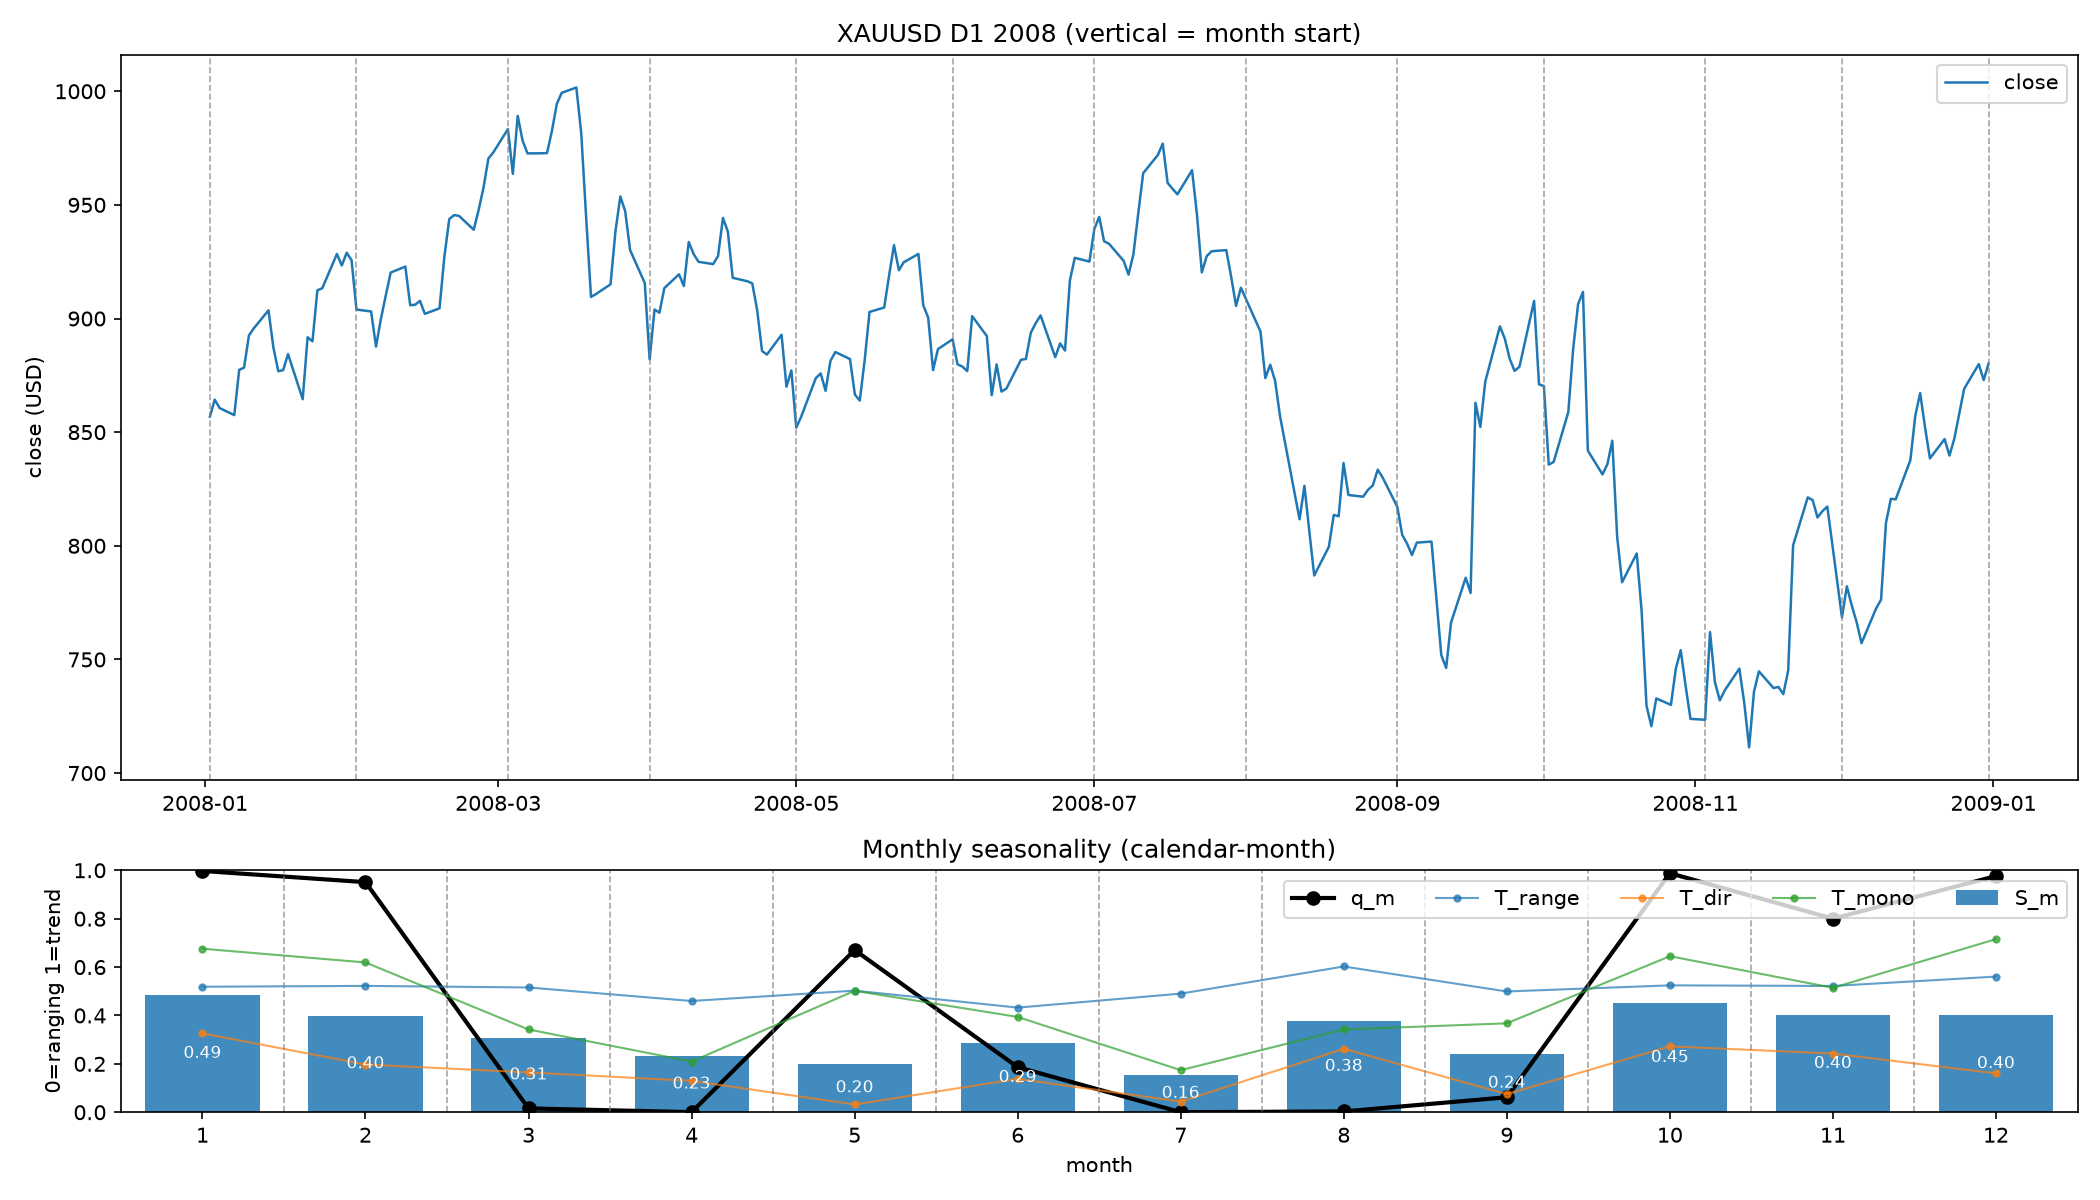
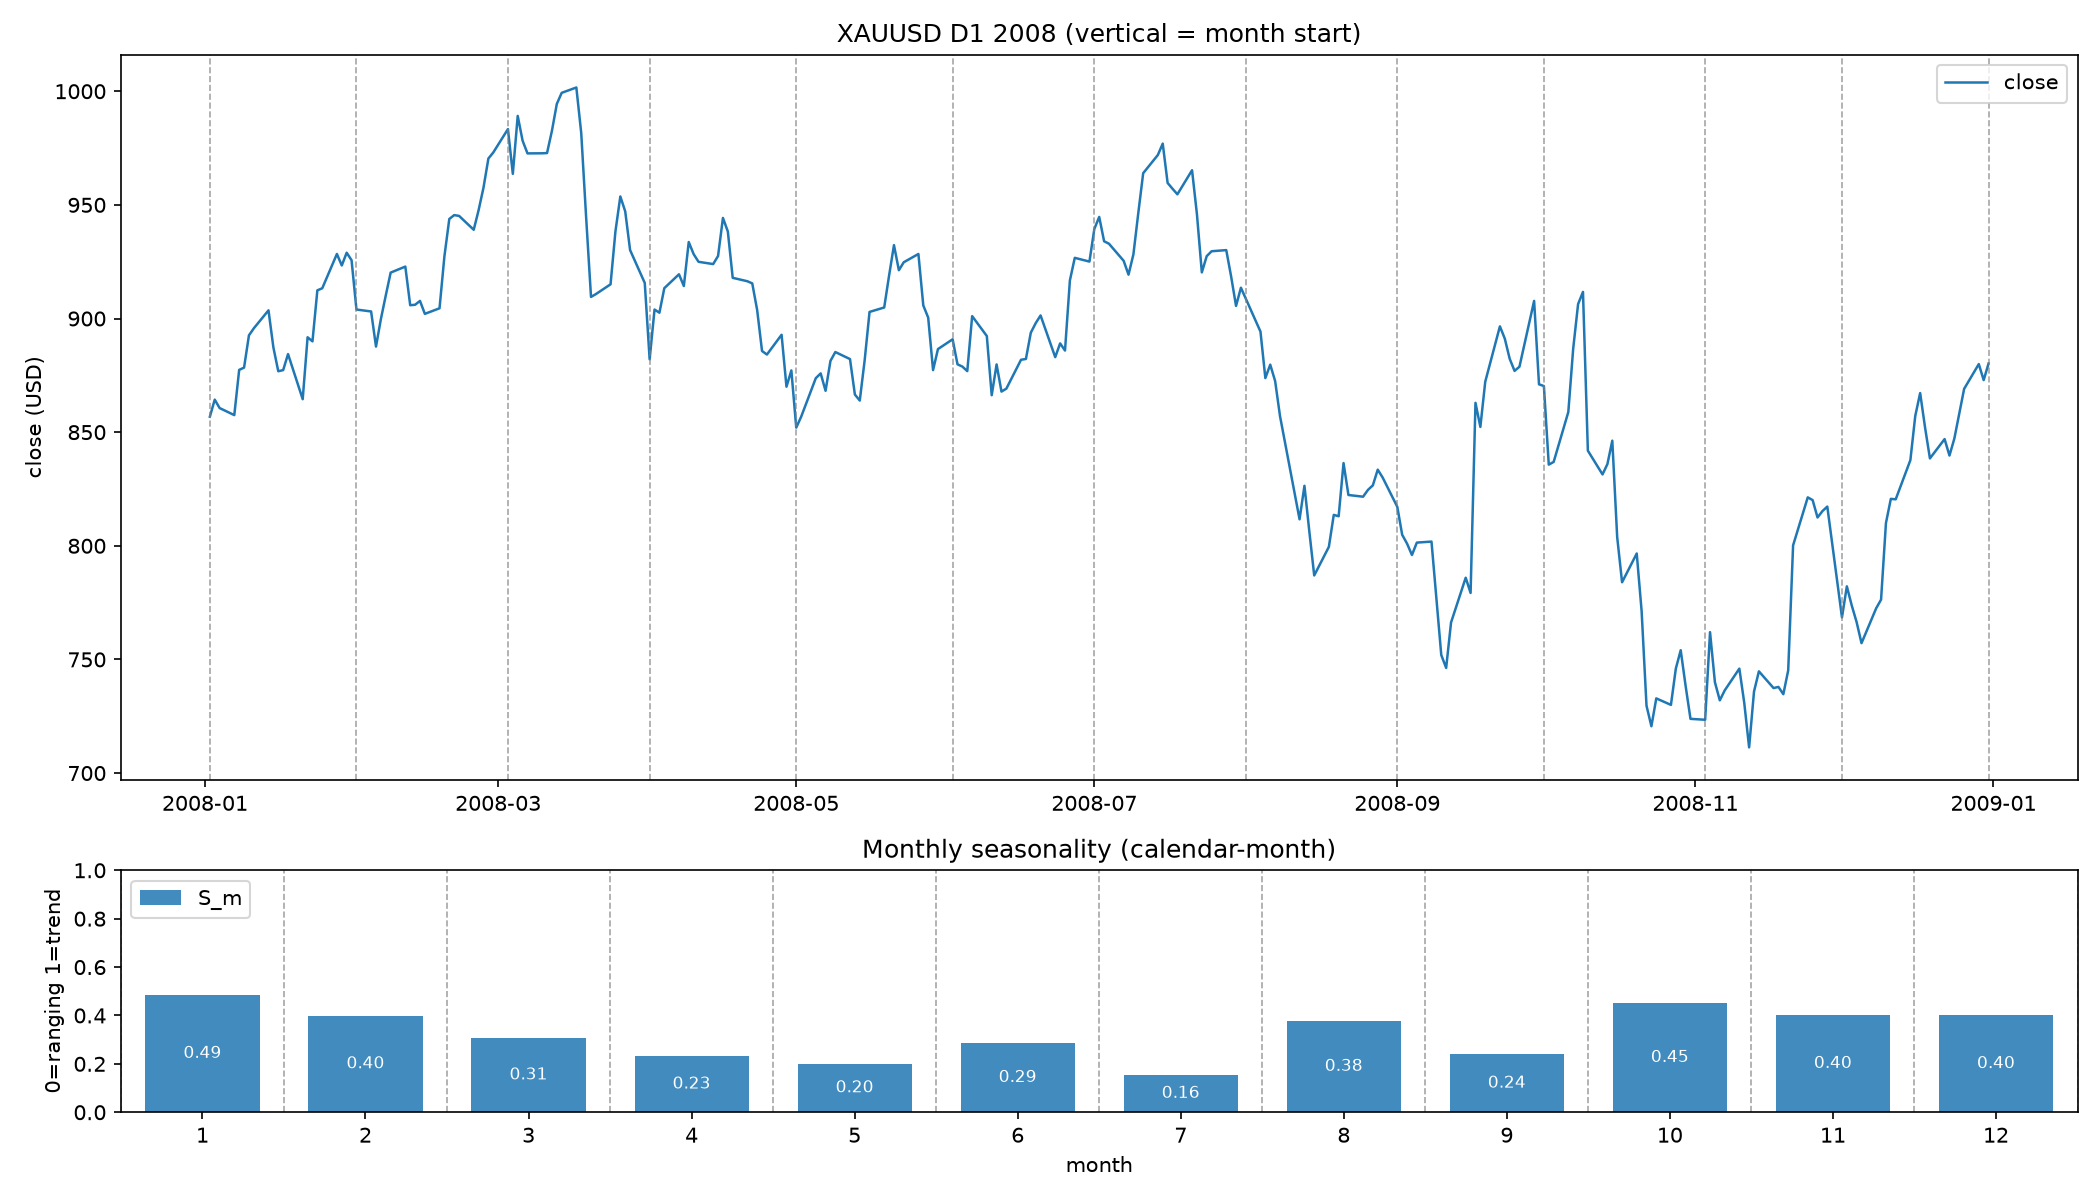
feat(charts): hide q_m and T lines, bars only
Lines kept in code behind SHOW_LINES=False in 4-charts.py and tmp.py; set True to re-show. All 20 yearly charts regenerated.

diff --git a/4-charts.py b/4-charts.py
@@ -17,6 +17,7 @@ matplotlib.rcParams["axes.grid"] = False
 SRC = Path("data/xauusd_d1.parquet")
 FEAT = Path("data/monthly_features.parquet")
 OUT_DIR = Path("charts/yearly")
+SHOW_LINES = False  # set True to re-show q_m / T lines (hidden, not removed)
 
 
 def draw_year(year: int, real: pl.DataFrame, feat: pl.DataFrame) -> Path:
@@ -49,10 +50,14 @@ def draw_year(year: int, real: pl.DataFrame, feat: pl.DataFrame) -> Path:
             ax_s.text(x, h / 2, f"{v:.2f}", ha="center", va="center", fontsize=8, color="white")
         else:
             ax_s.text(x, h + 0.015, f"{v:.2f}", ha="center", va="bottom", fontsize=8, color="black")
-    ax_s.plot(months, yf["q_trend"].to_list(), marker="o", linewidth=2, color="black", label="q_m")
-    ax_s.plot(months, yf["t_range"].to_list(), marker=".", linewidth=1, alpha=0.7, label="T_range")
-    ax_s.plot(months, yf["t_direction"].to_list(), marker=".", linewidth=1, alpha=0.7, label="T_dir")
-    ax_s.plot(months, yf["t_mono"].to_list(), marker=".", linewidth=1, alpha=0.7, label="T_mono")
+    ax_s.plot(months, yf["q_trend"].to_list(), marker="o", linewidth=2, color="black",
+              label="q_m" if SHOW_LINES else "_q_m", visible=SHOW_LINES)
+    ax_s.plot(months, yf["t_range"].to_list(), marker=".", linewidth=1, alpha=0.7,
+              label="T_range" if SHOW_LINES else "_T_range", visible=SHOW_LINES)
+    ax_s.plot(months, yf["t_direction"].to_list(), marker=".", linewidth=1, alpha=0.7,
+              label="T_dir" if SHOW_LINES else "_T_dir", visible=SHOW_LINES)
+    ax_s.plot(months, yf["t_mono"].to_list(), marker=".", linewidth=1, alpha=0.7,
+              label="T_mono" if SHOW_LINES else "_T_mono", visible=SHOW_LINES)
     for mm in months:
         ax_s.axvline(mm - 0.5, color="gray", linestyle="--", linewidth=0.8, alpha=0.7)
     ax_s.axvline(months[-1] + 0.5, color="gray", linestyle="--", linewidth=0.8, alpha=0.7)

diff --git a/tmp.py b/tmp.py
@@ -12,6 +12,7 @@ SRC = Path("data/xauusd_d1.parquet")
 FEAT = Path("data/monthly_features.parquet")
 OUT = Path("charts/yearly/xauusd_2025.png")
 YEAR = 2025
+SHOW_LINES = False  # set True to re-show q_m / T lines (hidden, not removed)
 
 
 def main() -> None:
@@ -46,10 +47,14 @@ def main() -> None:
             ax_s.text(x, h / 2, f"{v:.2f}", ha="center", va="center", fontsize=8, color="white")
         else:
             ax_s.text(x, h + 0.015, f"{v:.2f}", ha="center", va="bottom", fontsize=8, color="black")
-    ax_s.plot(months, yf["q_trend"].to_list(), marker="o", linewidth=2, color="black", label="q_m")
-    ax_s.plot(months, yf["t_range"].to_list(), marker=".", linewidth=1, alpha=0.7, label="T_range")
-    ax_s.plot(months, yf["t_direction"].to_list(), marker=".", linewidth=1, alpha=0.7, label="T_dir")
-    ax_s.plot(months, yf["t_mono"].to_list(), marker=".", linewidth=1, alpha=0.7, label="T_mono")
+    ax_s.plot(months, yf["q_trend"].to_list(), marker="o", linewidth=2, color="black",
+              label="q_m" if SHOW_LINES else "_q_m", visible=SHOW_LINES)
+    ax_s.plot(months, yf["t_range"].to_list(), marker=".", linewidth=1, alpha=0.7,
+              label="T_range" if SHOW_LINES else "_T_range", visible=SHOW_LINES)
+    ax_s.plot(months, yf["t_direction"].to_list(), marker=".", linewidth=1, alpha=0.7,
+              label="T_dir" if SHOW_LINES else "_T_dir", visible=SHOW_LINES)
+    ax_s.plot(months, yf["t_mono"].to_list(), marker=".", linewidth=1, alpha=0.7,
+              label="T_mono" if SHOW_LINES else "_T_mono", visible=SHOW_LINES)
     for mm in months:
         ax_s.axvline(mm - 0.5, color="gray", linestyle="--", linewidth=0.8, alpha=0.7)
     ax_s.axvline(months[-1] + 0.5, color="gray", linestyle="--", linewidth=0.8, alpha=0.7)
